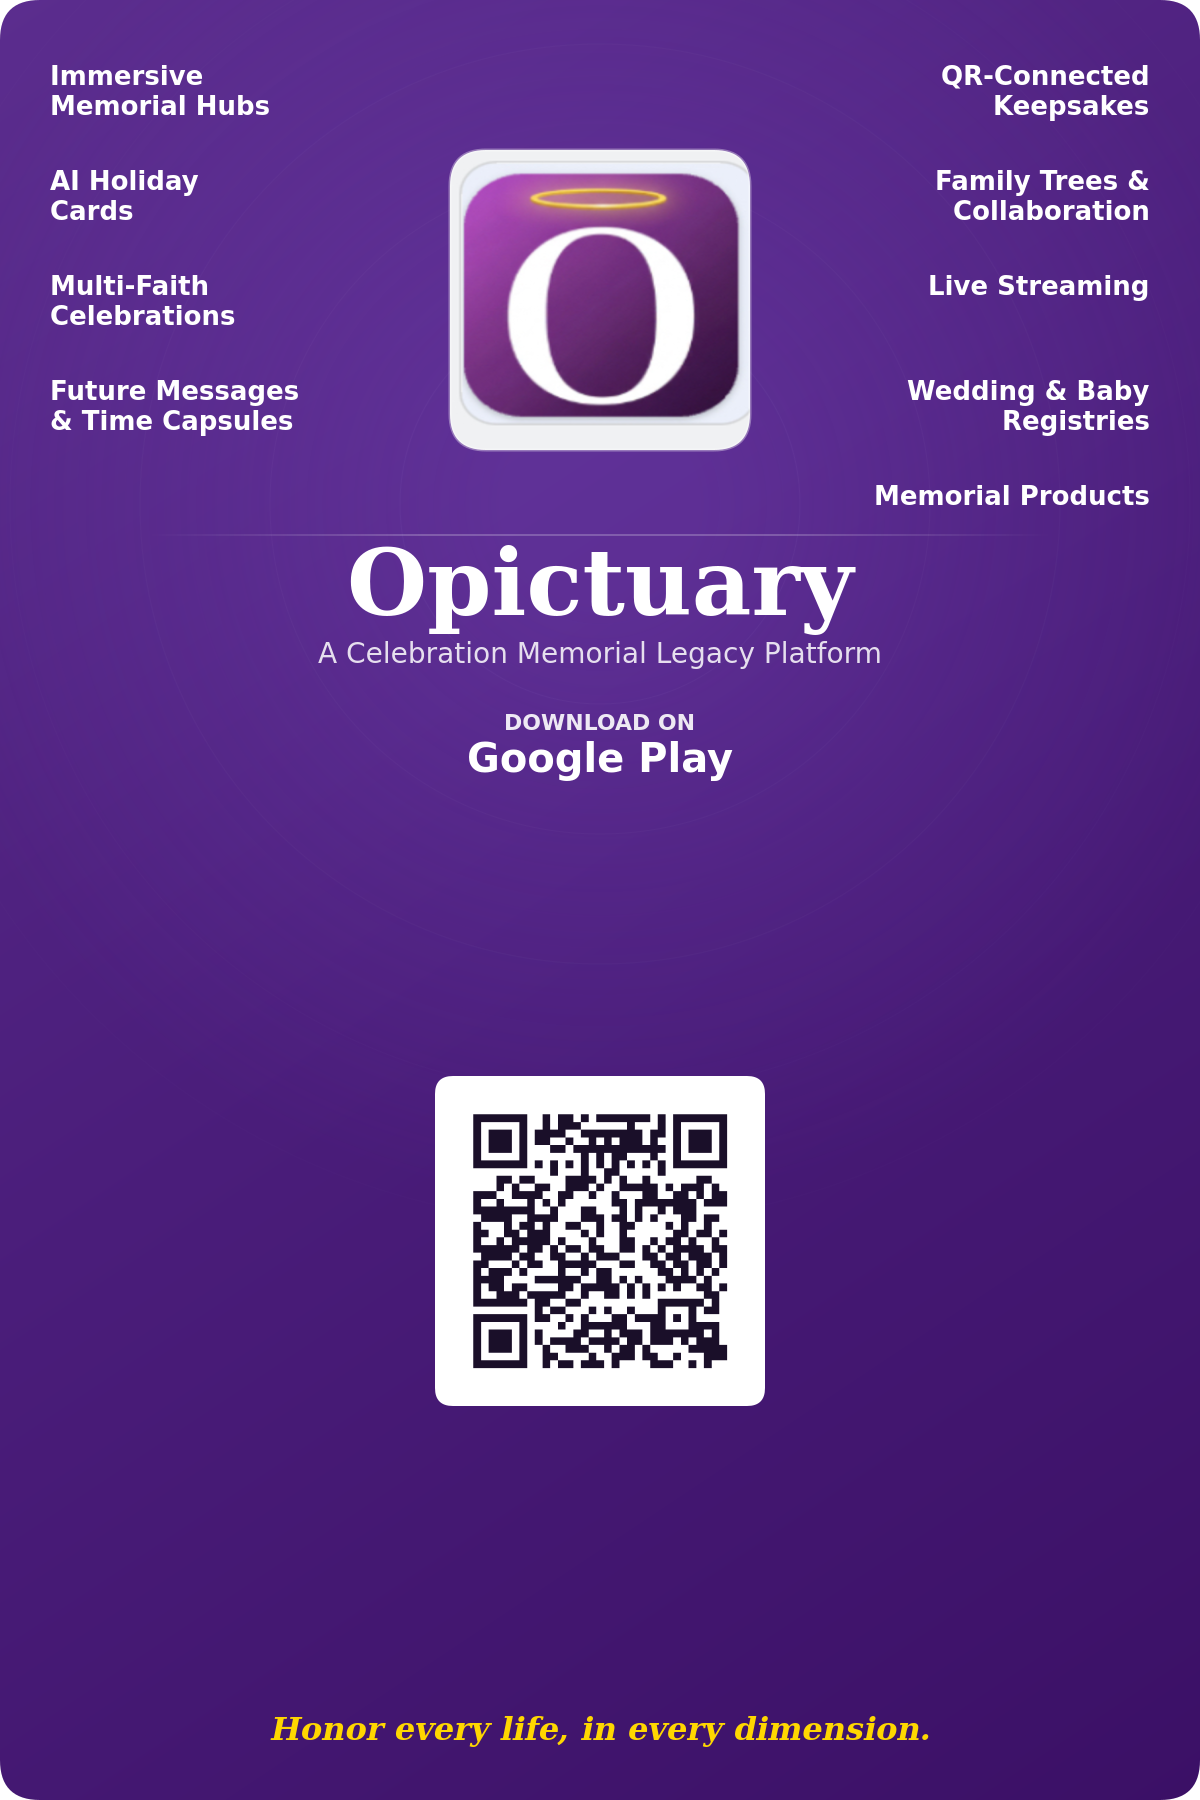
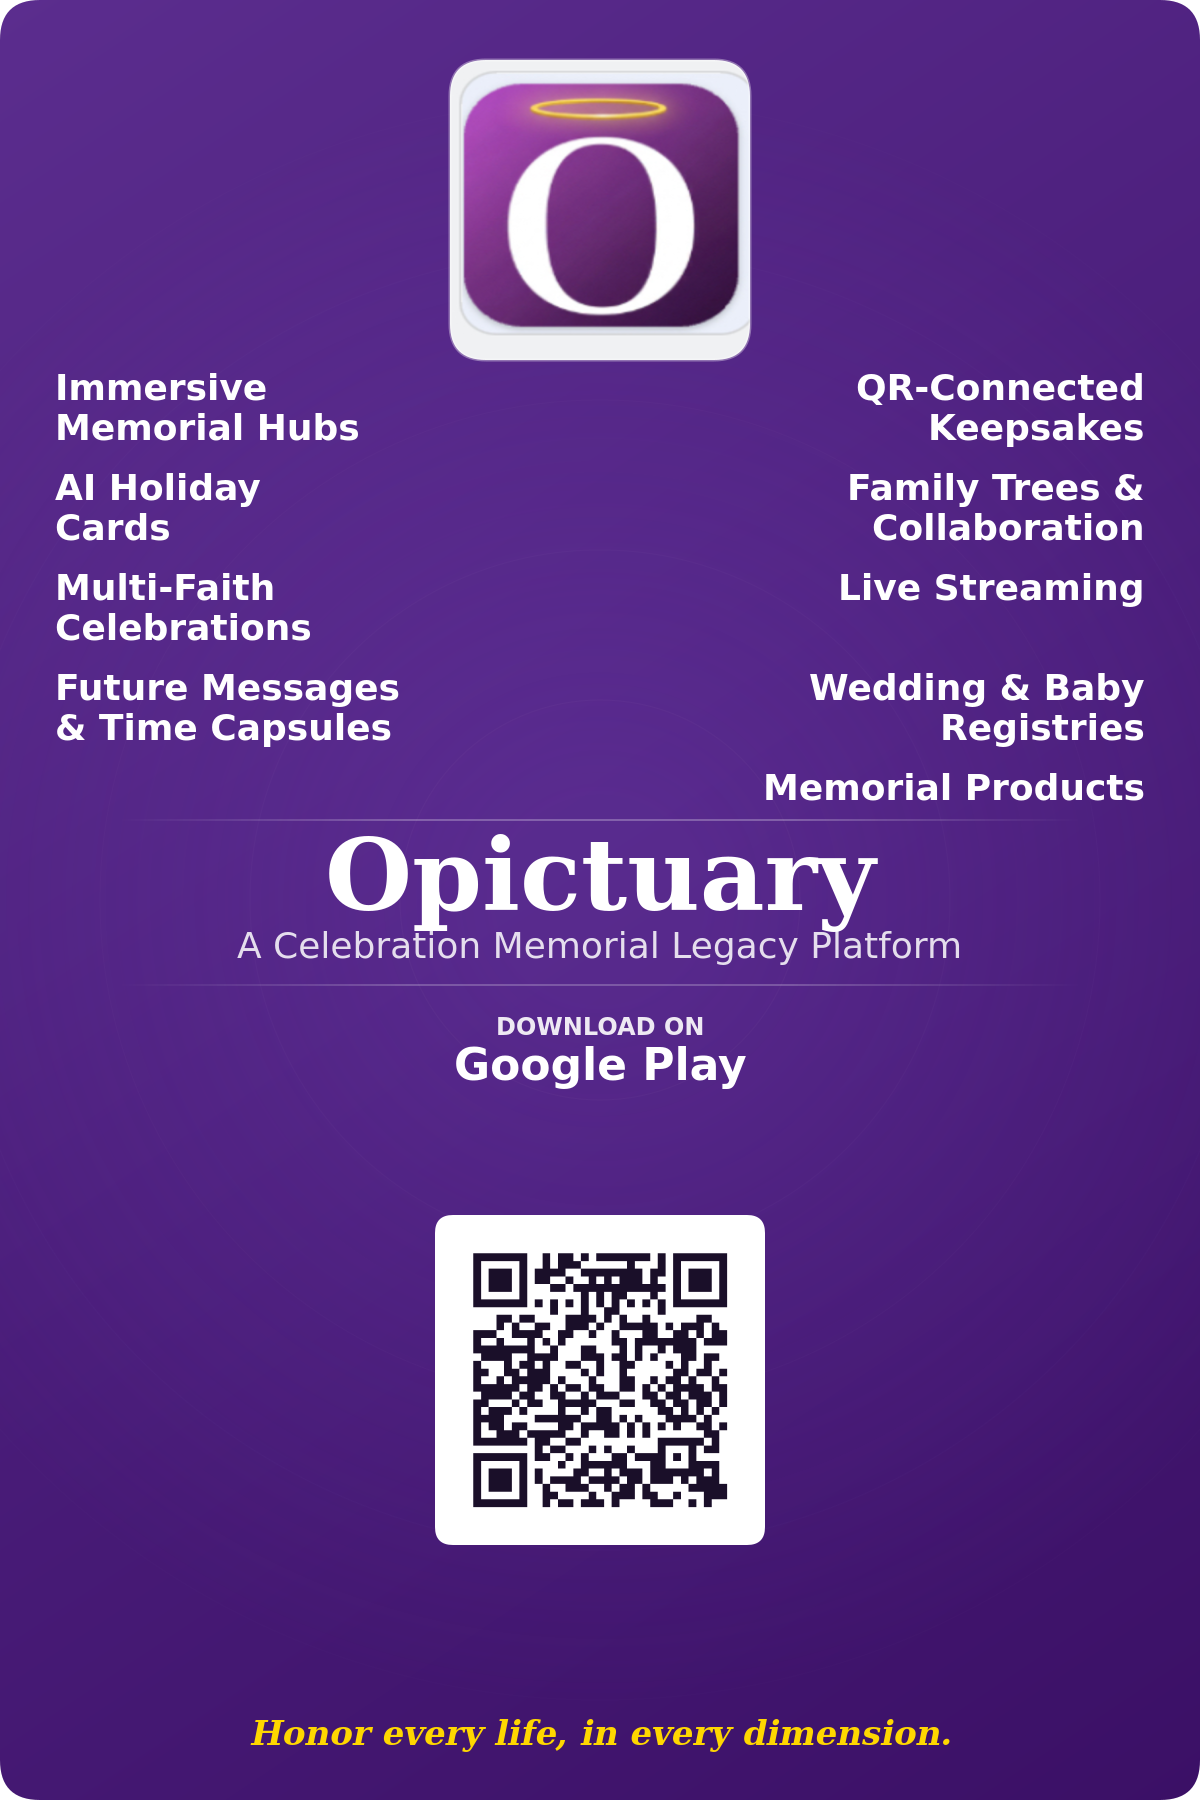
Improve sticker layout by increasing feature text size and centering content
Adjusted canvas drawing parameters to reposition radial gradient and update feature text sizes and spacing for a more balanced sticker design.

Replit-Commit-Author: Agent
Replit-Commit-Session-Id: 05a82474-a50c-443d-bb5e-5c4e27e71629
Replit-Commit-Checkpoint-Type: full_checkpoint
Replit-Commit-Event-Id: 76753d8e-bee9-45a0-9aca-239dd7c3efa1
Replit-Commit-Screenshot-Url: https://storage.googleapis.com/screenshot-production-us-central1/0619f857-3b31-48e3-9f83-e1495112055c/05a82474-a50c-443d-bb5e-5c4e27e71629/2xQlEOh

diff --git a/generate-sticker.js b/generate-sticker.js
@@ -33,61 +33,22 @@ async function generateSticker() {
   ctx.fillStyle = gradient;
   ctx.fillRect(0, 0, WIDTH, HEIGHT);
 
-  const radGrad = ctx.createRadialGradient(WIDTH / 2, HEIGHT * 0.28, 100, WIDTH / 2, HEIGHT * 0.28, 700);
-  radGrad.addColorStop(0, 'rgba(130, 80, 200, 0.3)');
+  const radGrad = ctx.createRadialGradient(WIDTH / 2, HEIGHT * 0.5, 100, WIDTH / 2, HEIGHT * 0.5, 800);
+  radGrad.addColorStop(0, 'rgba(130, 80, 200, 0.25)');
   radGrad.addColorStop(1, 'rgba(130, 80, 200, 0)');
   ctx.fillStyle = radGrad;
   ctx.fillRect(0, 0, WIDTH, HEIGHT);
 
   for (let i = 0; i < 5; i++) {
     ctx.beginPath();
-    ctx.arc(WIDTH / 2, HEIGHT * 0.28, 200 + i * 130, 0, Math.PI * 2);
-    ctx.strokeStyle = `rgba(255, 255, 255, ${0.03 - i * 0.005})`;
+    ctx.arc(WIDTH / 2, HEIGHT * 0.5, 200 + i * 150, 0, Math.PI * 2);
+    ctx.strokeStyle = `rgba(255, 255, 255, ${0.025 - i * 0.004})`;
     ctx.lineWidth = 1;
     ctx.stroke();
   }
 
-  const leftFeatures = [
-    "Immersive\nMemorial Hubs",
-    "AI Holiday\nCards",
-    "Multi-Faith\nCelebrations",
-    "Future Messages\n& Time Capsules",
-  ];
-  const rightFeatures = [
-    "QR-Connected\nKeepsakes",
-    "Family Trees &\nCollaboration",
-    "Live Streaming",
-    "Wedding & Baby\nRegistries",
-    "Memorial Products",
-  ];
-
-  const FEATURE_START_Y = 85;
-  const FEATURE_SPACING = 105;
-
-  ctx.textAlign = 'left';
-  leftFeatures.forEach((feat, i) => {
-    const lines = feat.split('\n');
-    const yBase = FEATURE_START_Y + i * FEATURE_SPACING;
-    ctx.font = 'bold 26px sans-serif';
-    ctx.fillStyle = '#FFFFFF';
-    lines.forEach((line, li) => {
-      ctx.fillText(line, 50, yBase + li * 30);
-    });
-  });
-
-  ctx.textAlign = 'right';
-  rightFeatures.forEach((feat, i) => {
-    const lines = feat.split('\n');
-    const yBase = FEATURE_START_Y + i * FEATURE_SPACING;
-    ctx.font = 'bold 26px sans-serif';
-    ctx.fillStyle = '#FFFFFF';
-    lines.forEach((line, li) => {
-      ctx.fillText(line, WIDTH - 50, yBase + li * 30);
-    });
-  });
-
   const ICON_SIZE = 300;
-  const iconY = 150;
+  const iconY = 60;
   try {
     const icon = await loadImage('client/public/icon-512.png');
     const iconX = (WIDTH - ICON_SIZE) / 2;
@@ -106,47 +67,103 @@ async function generateSticker() {
     roundedRect(ctx, iconX, iconY, ICON_SIZE, ICON_SIZE, iconR);
     ctx.stroke();
   } catch (e) {
-    console.log('Could not load icon, drawing placeholder');
+    console.log('Could not load icon');
   }
+
+  const leftFeatures = [
+    "Immersive\nMemorial Hubs",
+    "AI Holiday\nCards",
+    "Multi-Faith\nCelebrations",
+    "Future Messages\n& Time Capsules",
+  ];
+  const rightFeatures = [
+    "QR-Connected\nKeepsakes",
+    "Family Trees &\nCollaboration",
+    "Live Streaming",
+    "Wedding & Baby\nRegistries",
+    "Memorial Products",
+  ];
+
+  const LEFT_START_Y = 400;
+  const LEFT_SPACING = 100;
+
+  ctx.textAlign = 'left';
+  leftFeatures.forEach((feat, i) => {
+    const lines = feat.split('\n');
+    const yBase = LEFT_START_Y + i * LEFT_SPACING;
+    ctx.font = 'bold 36px sans-serif';
+    ctx.fillStyle = '#FFFFFF';
+    lines.forEach((line, li) => {
+      ctx.fillText(line, 55, yBase + li * 40);
+    });
+  });
+
+  const RIGHT_START_Y = 400;
+  const RIGHT_SPACING = 100;
+
+  ctx.textAlign = 'right';
+  rightFeatures.forEach((feat, i) => {
+    const lines = feat.split('\n');
+    const yBase = RIGHT_START_Y + i * RIGHT_SPACING;
+    ctx.font = 'bold 36px sans-serif';
+    ctx.fillStyle = '#FFFFFF';
+    lines.forEach((line, li) => {
+      ctx.fillText(line, WIDTH - 55, yBase + li * 40);
+    });
+  });
 
   ctx.textAlign = 'center';
 
-  const featuresEndY = FEATURE_START_Y + 4 * FEATURE_SPACING + 30;
-  const divider1Y = featuresEndY;
-  const lineGrad1 = ctx.createLinearGradient(150, divider1Y, WIDTH - 150, divider1Y);
+  const centerY = HEIGHT / 2;
+
+  const divider1Y = centerY - 80;
+  const lineGrad1 = ctx.createLinearGradient(120, divider1Y, WIDTH - 120, divider1Y);
   lineGrad1.addColorStop(0, 'rgba(255,255,255,0)');
-  lineGrad1.addColorStop(0.3, 'rgba(255,255,255,0.3)');
-  lineGrad1.addColorStop(0.7, 'rgba(255,255,255,0.3)');
+  lineGrad1.addColorStop(0.3, 'rgba(255,255,255,0.35)');
+  lineGrad1.addColorStop(0.7, 'rgba(255,255,255,0.35)');
   lineGrad1.addColorStop(1, 'rgba(255,255,255,0)');
   ctx.strokeStyle = lineGrad1;
   ctx.lineWidth = 1.5;
   ctx.beginPath();
-  ctx.moveTo(150, divider1Y);
-  ctx.lineTo(WIDTH - 150, divider1Y);
+  ctx.moveTo(120, divider1Y);
+  ctx.lineTo(WIDTH - 120, divider1Y);
   ctx.stroke();
 
-  const nameY = divider1Y + 80;
-  ctx.font = 'bold 92px serif';
+  ctx.font = 'bold 100px serif';
   ctx.fillStyle = '#FFFFFF';
-  ctx.fillText('Opictuary', WIDTH / 2, nameY);
+  ctx.fillText('Opictuary', WIDTH / 2, centerY + 10);
 
-  ctx.font = '28px sans-serif';
+  ctx.font = '36px sans-serif';
   ctx.fillStyle = 'rgba(255, 255, 255, 0.85)';
-  ctx.fillText('A Celebration Memorial Legacy Platform', WIDTH / 2, nameY + 48);
+  ctx.fillText('A Celebration Memorial Legacy Platform', WIDTH / 2, centerY + 58);
 
-  const dlTextY = nameY + 115;
-  ctx.font = 'bold 22px sans-serif';
+  const divider2Y = centerY + 85;
+  const lineGrad2 = ctx.createLinearGradient(120, divider2Y, WIDTH - 120, divider2Y);
+  lineGrad2.addColorStop(0, 'rgba(255,255,255,0)');
+  lineGrad2.addColorStop(0.3, 'rgba(255,255,255,0.3)');
+  lineGrad2.addColorStop(0.7, 'rgba(255,255,255,0.3)');
+  lineGrad2.addColorStop(1, 'rgba(255,255,255,0)');
+  ctx.strokeStyle = lineGrad2;
+  ctx.lineWidth = 1.5;
+  ctx.beginPath();
+  ctx.moveTo(120, divider2Y);
+  ctx.lineTo(WIDTH - 120, divider2Y);
+  ctx.stroke();
+
+  ctx.font = 'bold 24px sans-serif';
   ctx.fillStyle = 'rgba(255, 255, 255, 0.9)';
-  ctx.fillText('DOWNLOAD ON', WIDTH / 2, dlTextY);
+  ctx.fillText('DOWNLOAD ON', WIDTH / 2, divider2Y + 50);
 
-  ctx.font = 'bold 40px sans-serif';
+  ctx.font = 'bold 44px sans-serif';
   ctx.fillStyle = '#FFFFFF';
-  ctx.fillText('Google Play', WIDTH / 2, dlTextY + 42);
+  ctx.fillText('Google Play', WIDTH / 2, divider2Y + 95);
 
   const QR_SIZE = 300;
-  const taglineY = HEIGHT - 60;
-  const availableSpace = taglineY - 60 - (dlTextY + 42);
-  const qrY = dlTextY + 42 + (availableSpace - QR_SIZE - 30) / 2 + 30;
+  const taglineY = HEIGHT - 55;
+  const qrAreaTop = divider2Y + 115;
+  const qrAreaBottom = taglineY - 55;
+  const qrY = qrAreaTop + (qrAreaBottom - qrAreaTop - QR_SIZE - 30) / 2;
+
   try {
     const qrDataUrl = await QRCode.toDataURL('https://opictuary.replit.app', {
       width: 800,
@@ -167,7 +184,7 @@ async function generateSticker() {
     console.error('QR generation failed:', e);
   }
 
-  ctx.font = 'italic bold 32px serif';
+  ctx.font = 'italic bold 34px serif';
   ctx.fillStyle = '#FFD700';
   ctx.textAlign = 'center';
   ctx.fillText('Honor every life, in every dimension.', WIDTH / 2, taglineY);
